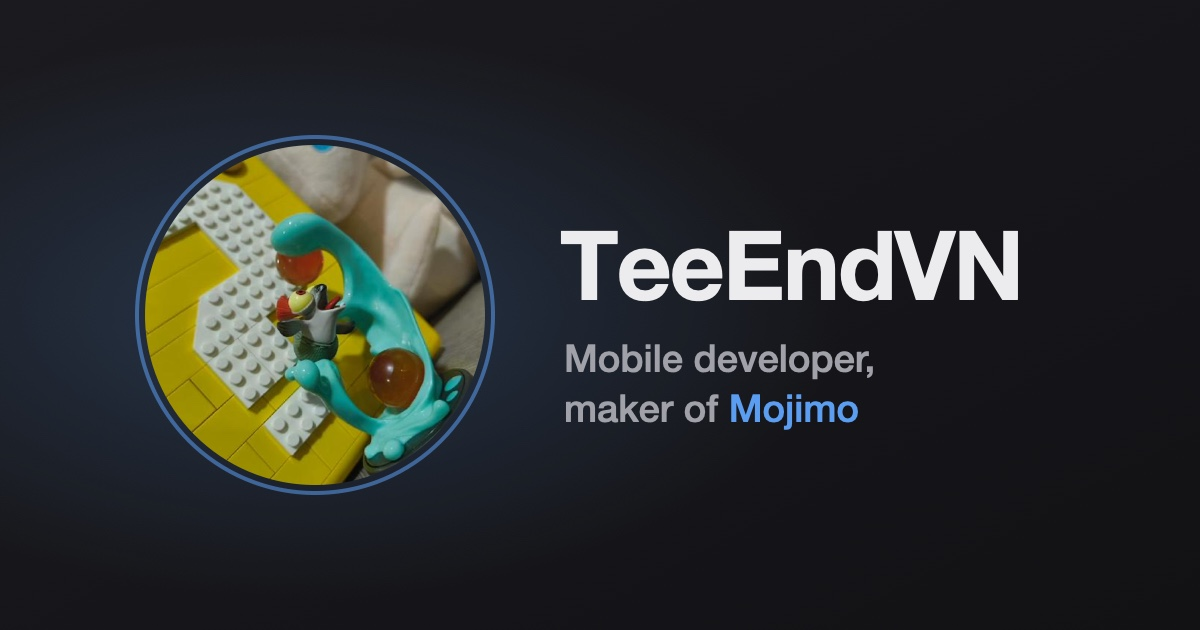
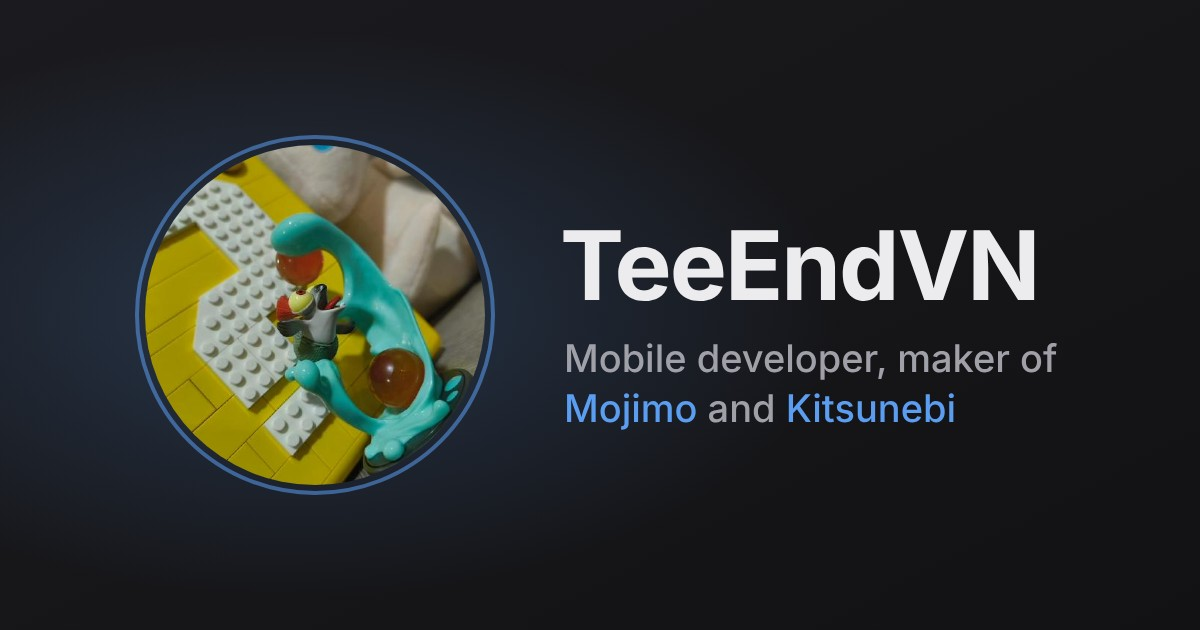
fix: name Kitsunebi in the link preview image

diff --git a/index.html b/index.html
@@ -14,7 +14,7 @@
   <meta property="og:image" content="https://teeendvn.com/assets/og-image.jpg">
   <meta property="og:image:width" content="1200">
   <meta property="og:image:height" content="630">
-  <meta property="og:image:alt" content="TeeEndVN avatar with the tagline Mobile developer, maker of Mojimo">
+  <meta property="og:image:alt" content="TeeEndVN avatar with the tagline Mobile developer, maker of Mojimo and Kitsunebi">
   <meta name="twitter:card" content="summary_large_image">
   <meta name="twitter:site" content="@TeeEndVN">
   <meta name="twitter:creator" content="@TeeEndVN">
